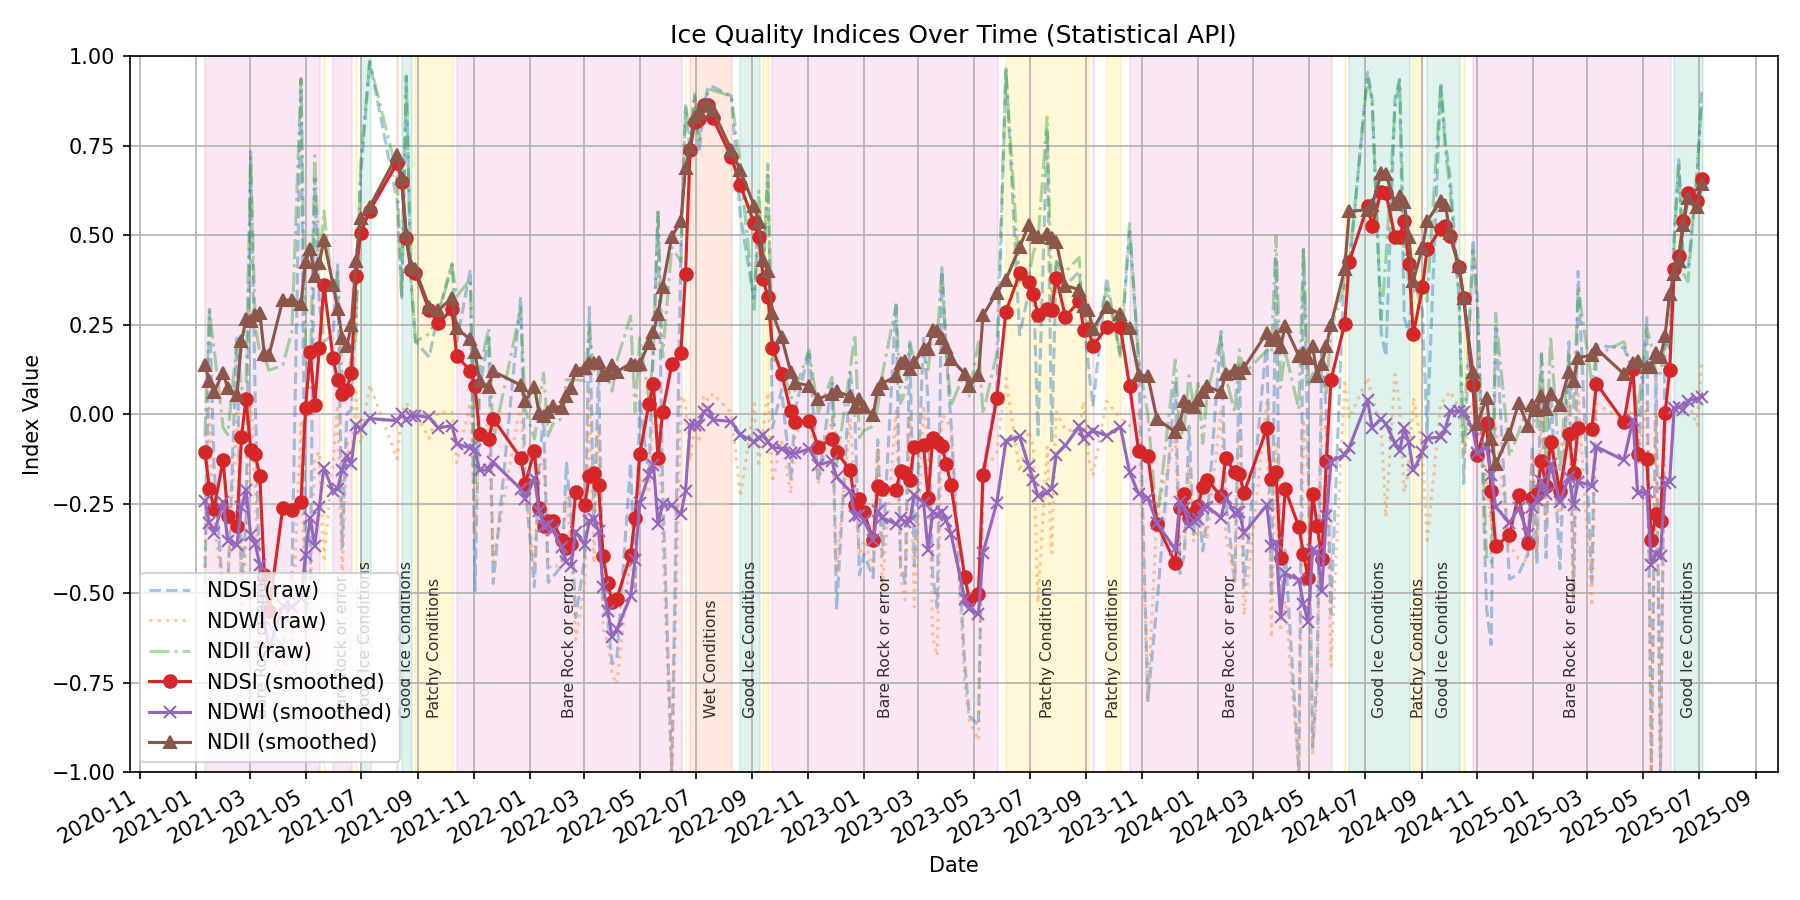
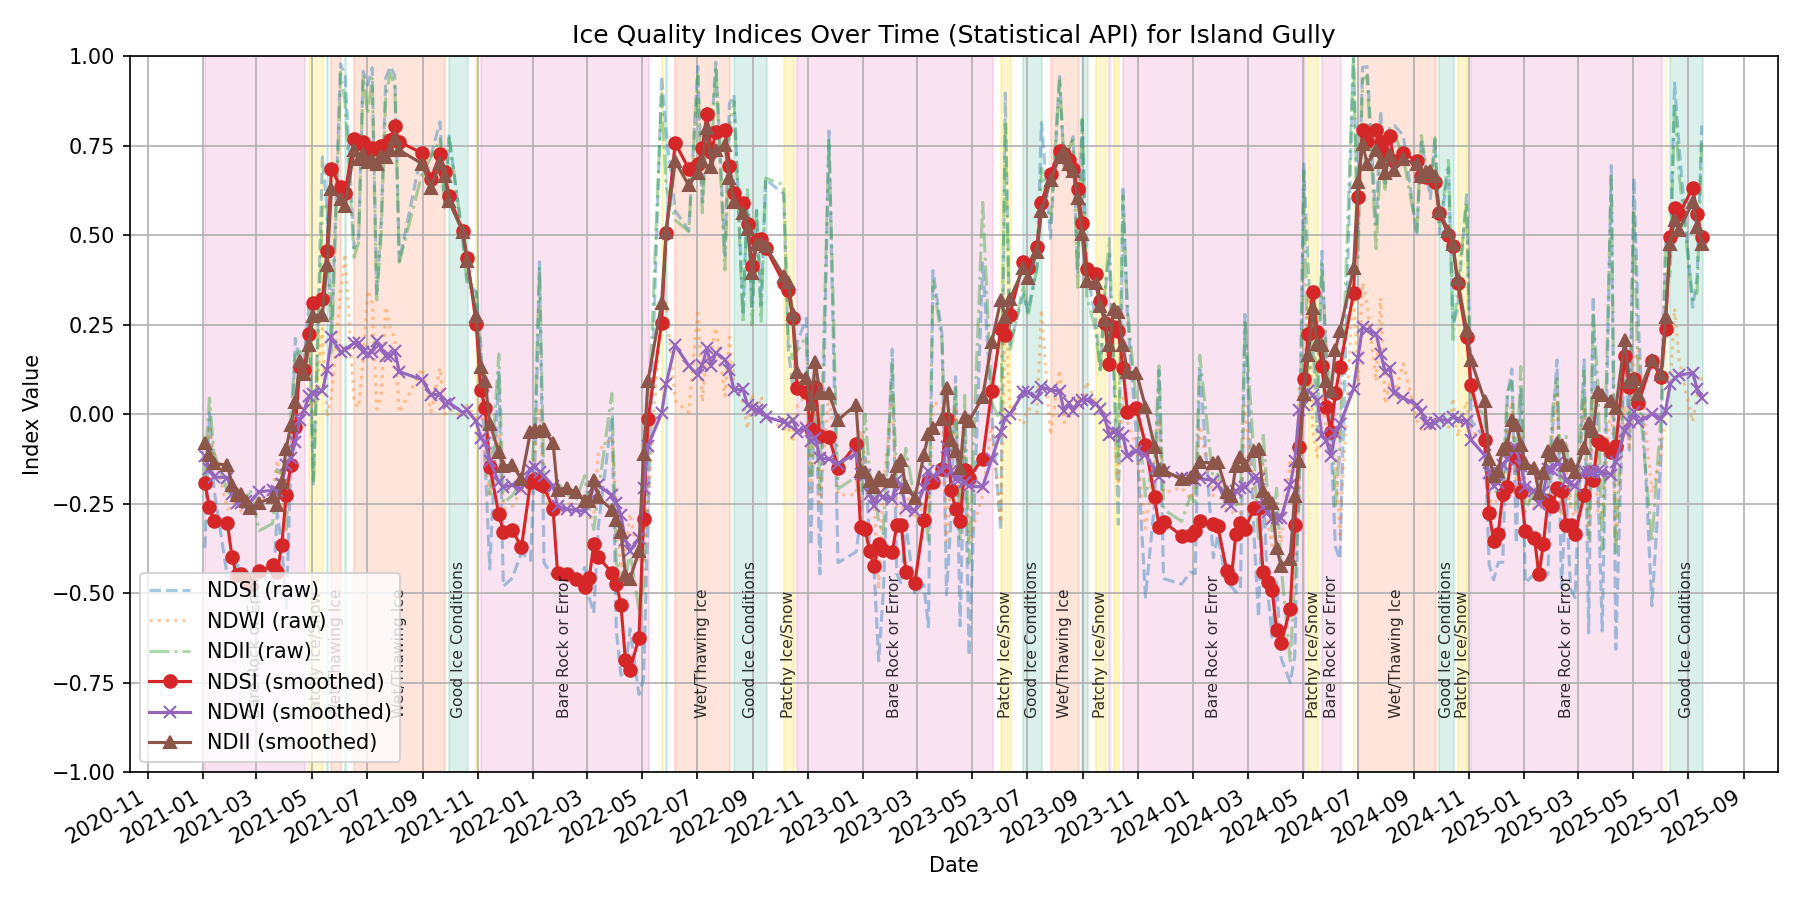
New Visuals

diff --git a/scripts/seasonal_var_daily.py b/scripts/seasonal_var_daily.py
@@ -1,0 +1,127 @@
+import duckdb
+import os
+from dotenv import load_dotenv
+from project_path import get_project_paths, set_dlt_env_vars
+from plotnine import (
+    ggplot, aes, geom_line, labs, facet_wrap, theme_light, theme,
+    element_text, element_rect, element_line, scale_x_continuous,
+    scale_color_manual, guides, guide_legend
+)
+
+# --------------- CONFIGURABLE COLORS ----------------
+CURRENT_YEAR_COLOR = "#e41a1c"  # RED
+HIGHLIGHT_COLORS = [
+    "#377eb8",  # blue
+    "#4daf4a",  # green
+    "#ffdf00",  # yellow
+    "#000000",  # black
+]
+OLDER_YEARS_COLOR = "#888888"  # grey
+# ----------------------------------------------------
+
+# --- ENV, DuckDB connection ---
+paths = get_project_paths()
+set_dlt_env_vars(paths)
+load_dotenv(dotenv_path=paths["ENV_FILE"])
+database_string = os.getenv("MD")
+if not database_string:
+    raise ValueError("Missing MD in environment.")
+con = duckdb.connect(database_string)
+
+# --- Load Data ---
+df = con.execute("""
+    SELECT
+        ski_field,
+        country,
+        year_col,
+        datecol,
+        day_of_season,
+        facet_label,
+        daily_snowfall_cm,
+        cumulative_snowfall_cm
+    FROM camonairflow.public_analysis.snowfall_cumulative_daily
+    WHERE year_col >= 2000
+""").df()
+
+# --- Calculate daily mean for each day and field ---
+df['facet_label'] = df['facet_label'].astype(str)
+clim = (
+    df.groupby(['facet_label', 'day_of_season'])['cumulative_snowfall_cm']
+    .mean()
+    .reset_index()
+    .rename(columns={'cumulative_snowfall_cm': 'mean_cumulative'})
+)
+df = df.merge(clim, on=['facet_label', 'day_of_season'], how='left')
+df['snowfall_anomaly'] = df['cumulative_snowfall_cm'] - df['mean_cumulative']
+
+# --- Colour assignments ---
+years_sorted = sorted(df['year_col'].unique())
+current_year = years_sorted[-1]
+last4_years = years_sorted[-5:-1]  # previous 4 years, most recent last
+older_years = years_sorted[:-5]
+
+year2color = {current_year: CURRENT_YEAR_COLOR}
+for i, y in enumerate(last4_years):
+    color = HIGHLIGHT_COLORS[i] if i < len(HIGHLIGHT_COLORS) else "#333333"
+    year2color[y] = color
+for y in older_years:
+    year2color[y] = OLDER_YEARS_COLOR
+
+def legend_label(row):
+    if row['year_col'] == current_year:
+        return str(current_year)
+    elif row['year_col'] in last4_years:
+        return str(row['year_col'])
+    else:
+        return f"2000–{years_sorted[-6]}"
+
+df['color'] = df['year_col'].map(year2color)
+df['legend_label'] = df.apply(legend_label, axis=1)
+
+legend_labels = [str(current_year)] + [str(y) for y in last4_years] + [f"2000–{years_sorted[-6]}"]
+legend_colors = [year2color[current_year]] + [year2color[y] for y in last4_years] + [OLDER_YEARS_COLOR]
+
+# --- Plot ---
+p = (
+    ggplot(df, aes(x="day_of_season", y="snowfall_anomaly", group="year_col", color="legend_label"))
+    + geom_line(size=1.3, alpha=0.98)
+    + facet_wrap('~facet_label', scales='free', ncol=3)
+    + scale_x_continuous(
+        breaks=[1, 31, 62, 93, 124, 155],  # Jun–Nov approx.
+        labels=['Jun', 'Jul', 'Aug', 'Sep', 'Oct', 'Nov'],
+        expand=(0.01, 0)
+    )
+    + scale_color_manual(
+        name="Year",
+        values=dict(zip(legend_labels, legend_colors))
+    )
+    + guides(color=guide_legend(title="Year", override_aes={'alpha': 1, 'size': 2}))
+    + labs(
+        title="Daily Cumulative Snowfall Anomaly vs. Historical Mean",
+        subtitle=(
+            f"Red = {current_year}, last 4 = blue/green/yellow/black, "
+            f"grey = 2000–{years_sorted[-6]}\n"
+            "Anomaly = Cumulative snowfall minus daily mean (2000–present)"
+        ),
+        x="Month (Season starts in June)", y="Cumulative Snowfall Anomaly (cm)"
+    )
+    + theme_light(base_size=16)
+    + theme(
+        legend_position='bottom',
+        legend_title=element_text(weight='bold', size=12),
+        legend_text=element_text(size=11),
+        axis_text_x=element_text(size=10),
+        axis_title_x=element_text(size=14, weight='bold'),
+        plot_title=element_text(weight='bold', size=18),
+        plot_subtitle=element_text(size=12),
+        panel_spacing=0.07,
+        strip_text_x=element_text(color="black", weight="bold", size=12),
+        strip_background=element_rect(fill="#e0e0e0", color="#888888"),
+        panel_grid_major_x=element_line(color="#343434", size=0.5, linetype='dashed')
+    )
+)
+
+# --- Save chart ---
+out_path = "/workspaces/CamOnAirFlow/charts/snowfall_anomaly_daily_legend.png"
+p.save(out_path, width=12, height=12, dpi=180, limitsize=False)
+print("✅ Saved chart with legend: snowfall_anomaly_daily_legend.png")

diff --git a/scripts/sentinel_visual.py b/scripts/sentinel_visual.py
@@ -34,68 +34,76 @@ df = con.execute("""
         location,
         ndsi_smooth,
         ndwi_smooth,
-        ndii_smooth,
+        ndii_smooth
     FROM camonairflow.main.ice_indices 
     ORDER BY date ASC
 """).df()
 
+# NZ-optimized classifier
 def classify_ice_point(ndsi, ndwi, ndii):
-    if ndsi > 0.40 and ndii < 0.70 and ndwi < 0.20:
-        return "Good Ice Conditions"
-    elif ndsi > 0.40 and (ndii >= 0.70 or ndwi >= 0.20):
-        return "Wet Conditions"
+    if ndsi > 0.40:
+        if ndii < 0.60 and ndwi < 0.25:
+            return "Good Ice Conditions"
+        elif ndii >= 0.60 or ndwi >= 0.25:
+            return "Wet/Thawing Ice"
+        elif ndii < 0.30:
+            return "Dry/Brittle Ice"
+        else:
+            return "Uncertain Ice"
     elif 0.20 < ndsi <= 0.40:
-        return "Patchy Conditions"
-    elif ndsi > 0.40 and ndii < 0.30:
-        return "Drier Ice Conditions"
+        if ndii <= 0.70 and ndwi < 0.30:
+            return "Patchy Ice/Snow"
+        else:
+            return "Patchy & Wet"
     else:
-        return "Bare Rock or error"
+        return "Bare Rock or Error"
 
-df = df[df["location"] == "Shrimpton Ice"]
+# Only plot one location (e.g. Wye Creek)
+df = df[df["location"] == "Island Gully"]
 df["date"] = pd.to_datetime(df["date"])
-df = df.reset_index(drop=True)  # for groupby processing
+df = df.reset_index(drop=True)
 df["label"] = df.apply(
     lambda row: classify_ice_point(row["ndsi_smooth"], row["ndwi_smooth"], row["ndii_smooth"]),
     axis=1
 )
 
+# Color palette for all possible labels
 label_colors = {
-    "Good Ice Conditions": "#66c2a5",
-    "Wet Conditions": "#fc8d62",
-    "Patchy Conditions": "#ffd92f",
-    "Bare Rock or error": "#e78ac3",
+    "Good Ice Conditions": "#66c2a5",     # greenish
+    "Wet/Thawing Ice": "#fc8d62",         # orange
+    "Dry/Brittle Ice": "#8da0cb",         # blue/purple
+    "Patchy Ice/Snow": "#ffd92f",         # yellow
+    "Patchy & Wet": "#fdb863",            # tan
+    "Uncertain Ice": "#bdbdbd",           # light grey
+    "Bare Rock or Error": "#e78ac3",      # pink
 }
 
 fig, ax = plt.subplots(figsize=(12, 6))
 
-# Draw shaded regions and vertical band labels
+# Draw shaded regions and label the middle of each (vertical bands)
 for label, group in groupby(enumerate(df["label"]), key=itemgetter(1)):
     indices = [i for i, _ in group]
     start = df["date"].iloc[indices[0]]
     end = df["date"].iloc[indices[-1]] + datetime.timedelta(days=1)
     duration = (end - start).days
 
-    ax.axvspan(start, end, color=label_colors.get(label, "#ffffff"), alpha=0.2)
+    ax.axvspan(start, end, color=label_colors.get(label, "#ffffff"), alpha=0.23)
 
     if duration >= 10:
         midpoint = start + (end - start) / 2
         ax.text(midpoint, -0.85, label, fontsize=7.5, ha="center", va="bottom", rotation=90, alpha=0.8)
 
-# Plot smoothed and raw indices
+# Plot indices (smoothed and raw)
 df.set_index("date", inplace=True)
-
 ax.plot(df.index, df["ndsi"], label="NDSI (raw)", linestyle="--", alpha=0.4)
 ax.plot(df.index, df["ndwi"], label="NDWI (raw)", linestyle=":", alpha=0.4)
 ax.plot(df.index, df["ndii"], label="NDII (raw)", linestyle="-.", alpha=0.4)
-
 ax.plot(df.index, df["ndsi_smooth"], label="NDSI (smoothed)", marker="o")
 ax.plot(df.index, df["ndwi_smooth"], label="NDWI (smoothed)", marker="x")
 ax.plot(df.index, df["ndii_smooth"], label="NDII (smoothed)", marker="^")
 
 ax.xaxis.set_major_locator(mdates.AutoDateLocator(minticks=14, maxticks=40))
-
-# Final formatting
-ax.set_title("Ice Quality Indices Over Time (Statistical API)")
+ax.set_title(f"Ice Quality Indices Over Time (Statistical API) for {df['location'].iloc[0]}")
 ax.set_xlabel("Date")
 ax.set_ylabel("Index Value")
 ax.set_ylim(-1, 1)
